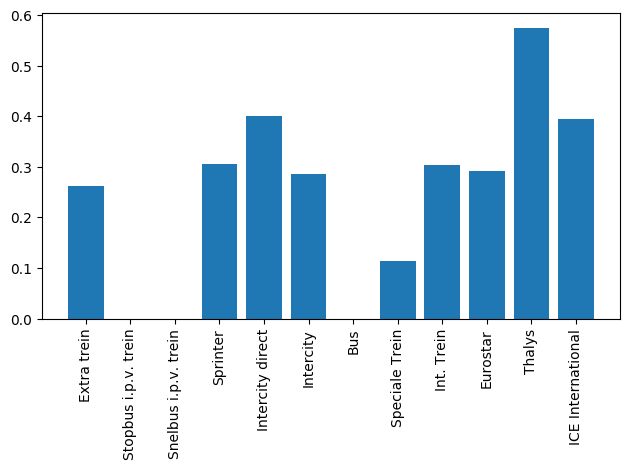
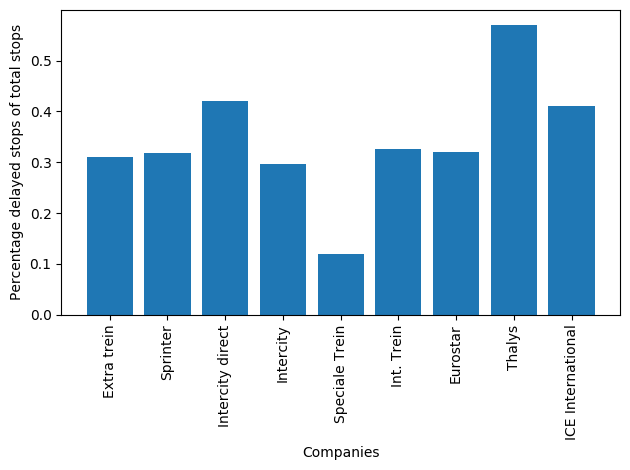
cleaned up code and edited readme

Changed region(s): [[0.0, 0.0, 0.9952, 0.983], [0.4825, 0.9532, 0.6032, 0.983], [0.2714, 0.8638, 0.3016, 0.983]]

diff --git a/experiments/canceled_per_delay.py b/experiments/canceled_per_delay.py
@@ -4,11 +4,13 @@ import csv
 import datetime
 import numpy as np
 
+# Intuitive way of getting the right column from csv
 columns = [
     "date", "station", "trainnumber", "company",
     "traintype", "destination", "time", "delay", "canceled"
 ]
 
+# Outlier dates, such as holidays and strikes
 obsolete_dates = [
     "2018-09-03", "2018-12-25", "2018-12-26","2018-12-31", "2019-01-01",
     "2019-04-19", "2019-04-21", "2019-04-22","2019-05-05","2019-05-28",
@@ -19,32 +21,36 @@ obsolete_dates = [
 delayed_trains = {}
 canceled_trains = {}
 
-# with open("../data/ALL_trains_2019_08_01_to_2019_11_01.csv") as vertrektijden:
 with open("../data/vertrektijden.csv") as vertrektijden:
     reader = csv.reader(vertrektijden, delimiter=",")
 
     for line in reader:
         date = line[columns.index("date")]
 
+        # Make sure we don't use any obsolete dates
         if date in obsolete_dates:
             continue
 
         year, month, day = date.split("-")
         weekday = datetime.date(int(year), int(month), int(day)).weekday()
 
-        # filtering out weekends
+        # Filtering out weekends
         if (weekday >= 5): continue
 
         delay = line[columns.index("delay")]
         canceled = line[columns.index("canceled")]
 
+        # Initialize number of times a train was delayed at a stop on
+        # a specific date.
         if date not in delayed_trains:
             delayed_trains[date] = 0
 
+        # Initialize number of times a train was canceled on a specific
+        # date.
         if date not in canceled_trains:
             canceled_trains[date] = 0
 
-        # Number of stops with delay:
+        # Number of stops with delay
         if int(delay) >= 1:
             delayed_trains[date] += 1
 
@@ -54,7 +60,8 @@ with open("../data/vertrektijden.csv") as vertrektijden:
 
 delays = {}
 
-# Iterate over all dates (canceled and delayed have same dates)
+# Iterate over all dates (canceled and delayed have same dates by way
+# of our implementation)
 for date in delayed_trains:
     delay_frequency = delayed_trains[date]
     canceled_frequency = canceled_trains[date]
@@ -70,13 +77,10 @@ for date in delayed_trains:
         avg = (freqs + canceled_frequency) / count
         delays[delay_frequency] = (count, avg)
 
-# sort = {}
-
-# Sort delay frequencies for better plotting
-# for i in sorted(list(delays.keys())):
-#     sort[i] = delays[i]
-
+# Get all delays on the x-axis
 xs = list(delays.keys())
+
+# Get the corresponding canceled trains on the y-axis
 ys = [y[1] for y in delays.values()]
 
 f = plt.figure()
@@ -89,4 +93,4 @@ plt.ylabel("Number of canceled trains")
 
 plt.show()
 
-f.savefig('../results/canceled_per_delay.pdf', bbox_inches='tight')
+f.savefig('../results/canceled_per_delay.png', bbox_inches='tight')

diff --git a/experiments/train_type_delays.py b/experiments/train_type_delays.py
@@ -1,8 +1,8 @@
-# plot showing a scatterplot between amount of stops made per day, and amount of delayed stops made per day
 import matplotlib.pyplot as plt
 import csv
 import numpy as np
 
+# Provides for intuitive way of getting the right column from csv
 columns = [
     "date", "station", "trainnumber", "company",
     "traintype", "destination", "time", "delay", "canceled"
@@ -12,15 +12,19 @@ columns = [
 total_trains = {}
 delayed_trains = {}
 
+# All carrier types the NS uses
 types = [
-    'Extra trein', 'Stopbus i.p.v. trein', 'Snelbus i.p.v. trein',
-    'Sprinter', 'Intercity direct', 'Intercity', 'Bus', 'Speciale Trein',
-    'Int. Trein', 'Eurostar', 'Thalys', 'ICE International'
+    'Extra trein', 'Sprinter', 'Intercity direct', 'Intercity',
+    'Speciale Trein', 'Int. Trein', 'Eurostar', 'Thalys', 'ICE International'
 ]
 
+# Initialize number of delayed stops that were made by
+# a carrier from NS
 for i in types:
     delayed_trains[i] = 0;
 
+# Initialize number of stops that were made by
+# a carrier from NS
 for i in types:
     total_trains[i] = 0;
 
@@ -31,27 +35,31 @@ with open("../data/ns_vertrektijden.csv") as vertrektijden:
         type = line[columns.index("traintype")];
         delay = line[columns.index("delay")]
 
-        total_trains[type] = total_trains[type] + 1
+        # Some carries types occur so little that we do not want
+        # list them in our plot.
+        if type not in total_trains:
+            continue
+
+        total_trains[type] += 1
 
         if int(delay) > 0:
-            delayed_trains[type] = delayed_trains[type] + 1
+            delayed_trains[type] += 1
 
-# plt.scatter(total_trains.values(), delayed_trains.values(), alpha=0.1)
-# plt.ylabel("Amount of delayed stops per day")
-# plt.xlabel("Amount of stops per day")
-# plt.show()
+ratio = [];
 
-performance = [];
-
+# Get ratio of delayed stops versus total number of stops
 for i in delayed_trains:
-    performance.append(delayed_trains[i] / total_trains[i])
+    ratio.append(delayed_trains[i] / total_trains[i])
 
 y_pos = np.arange(len(types))
 
 f = plt.figure()
 
-plt.bar(y_pos, performance, align='center')
+plt.bar(y_pos, ratio, align='center')
 plt.xticks(y_pos, types, rotation='vertical')
+plt.xlabel("Companies")
+plt.ylabel("Percentage delayed stops of total stops")
+
 plt.tight_layout()
 
 plt.show()

diff --git a/experiments/delayed_per_total.py b/experiments/delayed_per_total.py
@@ -1,8 +1,8 @@
-# plot showing a scatterplot between amount of stops made per day, and amount of delayed stops made per day
 import matplotlib.pyplot as plt
 import csv
 import numpy as np
 
+# Provides for intuitive way of getting the right column from csv
 columns = [
     "date", "station", "trainnumber", "company",
     "traintype", "destination", "time", "delay", "canceled"
@@ -18,9 +18,13 @@ companies = [
     'Eurobahn', 'NMBS', 'Blauwnet', 'Abellio Ra', 'ABRN', 'Breng'
 ]
 
+# Initialize number of delayed stops that were made by
+# a vehicle from a company
 for i in companies:
     delayed_trains[i] = 0;
 
+# Initialize number of stops that were made by a vehicle
+# from a company
 for i in companies:
     total_trains[i] = 0;
 
@@ -30,33 +34,35 @@ with open("../data/vertrektijden.csv") as vertrektijden:
     for line in reader:
         company = line[columns.index("company")];
 
+        # Some companies occur so little that we do not want
+        # list them in our graph.
         if company not in companies:
             continue
 
         delay = line[columns.index("delay")]
 
-        total_trains[company] = total_trains[company] + 1
+        total_trains[company] += 1
 
         if int(delay) > 0:
-            delayed_trains[company] = delayed_trains[company] + 1
+            delayed_trains[company] += 1
 
-performance = [];
+ratio = [];
 
+# Get ratio of delayed stops versus total number of stops
 for i in delayed_trains:
-    performance.append(delayed_trains[i] / total_trains[i])
+    ratio.append(delayed_trains[i] / total_trains[i])
 
 y_pos = np.arange(len(companies))
 
 f = plt.figure()
 
-plt.bar(y_pos, performance, align='center')
+plt.bar(y_pos, ratio, align='center')
 plt.xticks(y_pos, companies, rotation='vertical')
 plt.xlabel("Companies")
-plt.ylabel("$\\dfrac{\\mathrm{delayed}}{\\mathrm{total}} \%$")
+plt.ylabel("Percentage delayed stops of total stops")
+
 plt.tight_layout()
 
 plt.show()
 
 f.savefig('../results/delayed_per_total.png', bbox_inches='tight')
-
-# print(companies, totals)

diff --git a/experiments/delay_time_distribution.py b/experiments/delay_time_distribution.py
@@ -1,10 +1,10 @@
-# histogram showing amount of delayed stops per weekday at 8am
 import scipy.stats as st
 import matplotlib.pyplot as plt
 import csv
 import datetime
 import numpy as np
 
+# Provides for intuitive way of getting the right column from csv
 columns = [
     "date", "station", "trainnumber", "company",
     "traintype", "destination", "time", "delay", "canceled"
@@ -20,27 +20,31 @@ with open("../data/vertrektijden.csv") as vertrektijden:
     for line in reader:
         delay = int(line[columns.index("delay")])
 
+        # Limit delay to at most 30 minutes, since after this
+        # it is unlikely that a train will not be canceled.
         if delay >= 1 and delay <= 30:
             delays.append(delay)
 
+# Get exponential distributions parameters corresponding to best-fitting
+# exponential curve.
 scipy_params = st.expon.fit(delays, floc=0)
 
+# Run a Kolmogorov-Smirnov test using SciPy and get p-value
 p = st.kstest(delays, 'expon', scipy_params)[1]
+
 x = np.linspace(1, 30, 100)
 
 f = plt.figure()
 
-plt.hist(delays, bins=30, label="Observations", density=True)
-plt.plot(x, st.expon(*scipy_params).pdf(x), label="scipy expon fit")
-plt.ylabel("Frequencies (normalized)")
 plt.xlabel("Minutes delay")
-plt.title("time delay follows exponential distribution with p-value {} (rejection)".format(p))
+plt.ylabel("Frequencies (normalized)")
+plt.title("Time delay follows exponential distribution with p-value {} (rejection)".format(p))
 plt.legend()
 
-f.savefig('../results/delay_time_distribution.png', bbox_inches='tight')
+plt.hist(delays, bins=30, label="Observations", density=True)
+
+# Plot probability distribution for every minute.
+plt.plot(x, st.expon(*scipy_params).pdf(x), label="scipy expon fit")
 
 plt.show()
-
-
-# plt.plot(list(data.keys()), list(data.values()))
-# plt.show()
+f.savefig('../results/delay_time_distribution.png', bbox_inches='tight')

diff --git a/data_generator.py b/data_generator.py
@@ -66,10 +66,11 @@ if not os.path.isfile(dest_folder + '/delay.csv'):
             "python3",
             "split.py",
             "--delay=1",
+            "--transporter=NS",
             "--file=delay.csv"
         ])
     except subprocess.CalledProcessError:
-        print("Failed to generate file with delayed trains, aborting")
+        print("Failed to generate file with delayed NS trains, aborting")
 
         sys.exit()
 else:

diff --git a/most_delayed.py b/most_delayed.py
@@ -25,7 +25,7 @@ def get_most_delayed(should_print):
 
     stations = {}
 
-    filepath = "data/ns.csv"
+    filepath = "data/ns_vertrektijden.csv"
     with open(filepath) as FileObj:
         for line in FileObj:
             l = parse_line(line)

diff --git a/experiments/delayed_train_station_percentage.py b/experiments/delayed_train_station_percentage.py
@@ -24,7 +24,7 @@ for name in station_data():
 
 stations = {}
 
-filepath = "data/ns.csv"
+filepath = "data/ns_vertrektijden.csv"
 with open(filepath) as FileObj:
     for line in FileObj:
         l = parse_line(line)

diff --git a/README.md b/README.md
@@ -14,45 +14,41 @@ Besides creating the necessary data, this file will also look for any missing mo
 Experiments can be run by navigating to the `experiments` folder and running Python scripts from here. The results are both stored as `.png` images in the `results` folder, as well as shown as an interactive figure.
 
 ### Descriptions
-- `weather_delay_rain.py`: Experiment description
-- `weekday.py`: Experiment description
-- `overtime.py`: Experiment description
-- `normalize_wind_delay.py`: Experiment description
-- `train_type_delays.py`: Experiment description
-- `delay_8am_histogram.py`: Experiment description
-- `delay_histogram2.py`: Experiment description
-- `overtime_weekday_filtered.py`: Experiment description
-- `weather_delay_wind.py`: Experiment description
-- `normalized_rain_delay.py`: Experiment description
 - `amount_stops_vs_delays_per_day.py`: Experiment description
-- `weather_delayornot_rain_percentage.py`: Experiment description
-- `delay_histogram_log.py`: Experiment description
-- `delayed_per_total.py`: Experiment description
-- `weather_delayornot_wind.py`: Experiment description
-- `weekdays.py`: Experiment description
-- `delay_11pm_histogram.py`: Experiment description
-- `overtime_weekend.py`: Experiment description
-- `weather_delayornot_wind_percentage.py`: Experiment description
-- `station.py`: Experiment description
-- `delay_time_distribution.py`: Experiment description
-- `station_relative.py`: Experiment description
+- `canceled_per_delay.py`: Generate a scatter plot of the number of delayed stops versus the number of canceled trains
 - `correlation_trackdelays.py`: Experiment description
+- `delay_11pm_histogram.py`: Experiment description
 - `delay_1pm_histogram.py`: Experiment description
-- `hourly.py`: Experiment description
-- `get_files.py`: Experiment description
-- `station_relative_5.py`: Experiment description
-- `overtime_weekday.py`: Experiment description
 - `delay_5pm_histogram.py`: Experiment description
-- `weather_delayornot_rain.py`: Experiment description
-- `canceled_per_delay.py`: Experiment description
+- `delay_8am_histogram.py`: Experiment description
 - `delay_distribution.py`: Experiment description
-- `delayed_train_station_percentage.py`: Experiment description
 - `delay_histogram.py`: Experiment description
+- `delay_histogram2.py`: Experiment description
+- `delay_histogram_log.py`: Experiment description
+- `delay_time_distribution.py`: Fit the exponential distribution over the frequency of _x_ minutes delay
+- `delayed_per_total.py`: Show amount of delayed stops versus the total number of stops for every company in the data set.
+- `delayed_train_station_percentage.py`: Experiment description
+- `hourly.py`: Experiment description
+- `normalize_wind_delay.py`: Experiment description
+- `normalized_rain_delay.py`: Experiment description
+- `overtime.py`: Experiment description
 - `overtime_montues_diffs.py`: Experiment description
+- `overtime_weekday.py`: Experiment description
+- `overtime_weekday_filtered.py`: Experiment description
+- `overtime_weekend.py`: Experiment description
 - `overtime_weekend_diffs.py`: Experiment description
+- `station.py`: Experiment description
+- `station_relative.py`: Experiment description
+- `station_relative_5.py`: Experiment description
+- `train_type_delays.py`: Show a bar plot with the amount of delays for every carrier type of the NS
+- `weather_delay_rain.py`: Experiment description
+- `weather_delay_wind.py`: Experiment description
+- `weather_delayornot_rain.py`: Experiment description
+- `weather_delayornot_rain_percentage.py`: Experiment description
+- `weather_delayornot_wind.py`: Experiment description
+- `weather_delayornot_wind_percentage.py`: Experiment description
+- `weekday.py`: Experiment description
+- `weekdays.py`: Experiment description
 
 ## Contributors
-Daan Vinken
-Joël Buter
-Ricardo van Aken
-Jesse Postema
+Daan Vinken, Joël Buter, Ricardo van Aken, Jesse Postema
